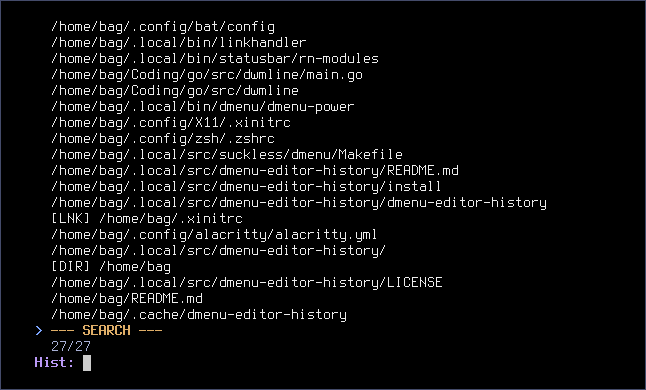
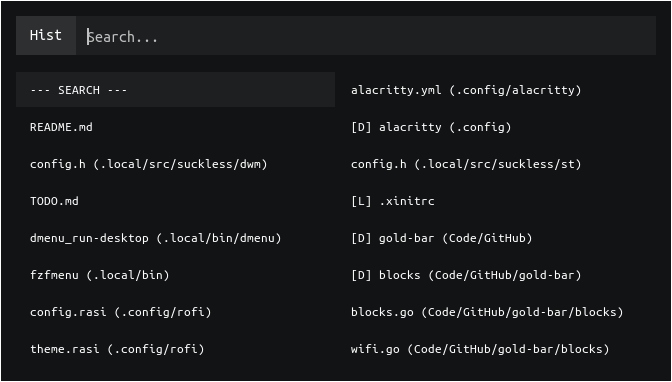
Update README.md

diff --git a/README.md b/README.md
@@ -1,10 +1,10 @@
 # Supercharge your workflow
 
-'dmenu-editor-history' is a Bash script that provides an awesome editor indepentend history list of opened files. With this you can keep track of previously opened files in order to quickly reopen them again. You can also search for new unopened files under the home directory. If you are the sort of person that frequently edit the same files this is for you!
+'dmenu-editor-history' is a Bash script that provides an awesome editor indepentend history list of opened files. With this you can keep track of previously opened files in order to quickly reopen them again. You can also search for new unopened files under the home directory (using find). If you are the sort of person that frequently edit the same files this is for you!
 
 The default editor is sublime text, but the text editor, dmenu command, and find command can be changed with command line flags. See --help for details.
 
-Shown below (with a custom dmenu command):
+Shown below (with rofi):
 
 <img src="https://github.com/simtd/dmenu-editor-history/blob/main/img.png" width="500" />
 
@@ -14,6 +14,10 @@ There are two basic usages:
 
 1) `dmenu-editor-history --sel` - Select a file or search for a new one via dmenu. This command is intended to be run via a custom hotkey.
 2) `dmenu-editor-history --open example.txt` - Open a new file from the terminal. This command is intended to be run via a custom shell alias and replaces the normal command you use to open files like `subl`, `vim`, `code`.
+
+## dmenu tip
+
+It takes a while for find to parse the home directory. Therefore it it advantageous to use a dmenu alternative (like rofi or fzf) that doesn't block standard in. This makes it so you don't have to wait on the find command to complete before you can start to type. There are also patches for dmenu which can solve this "issue".
 
 ## Installation
 
